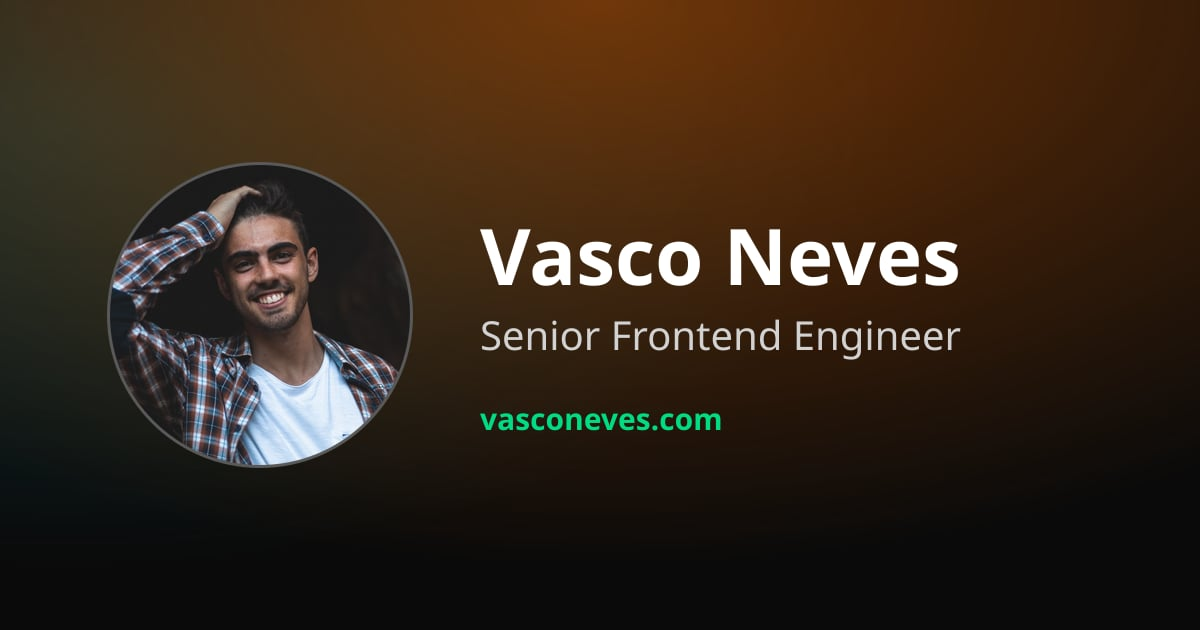
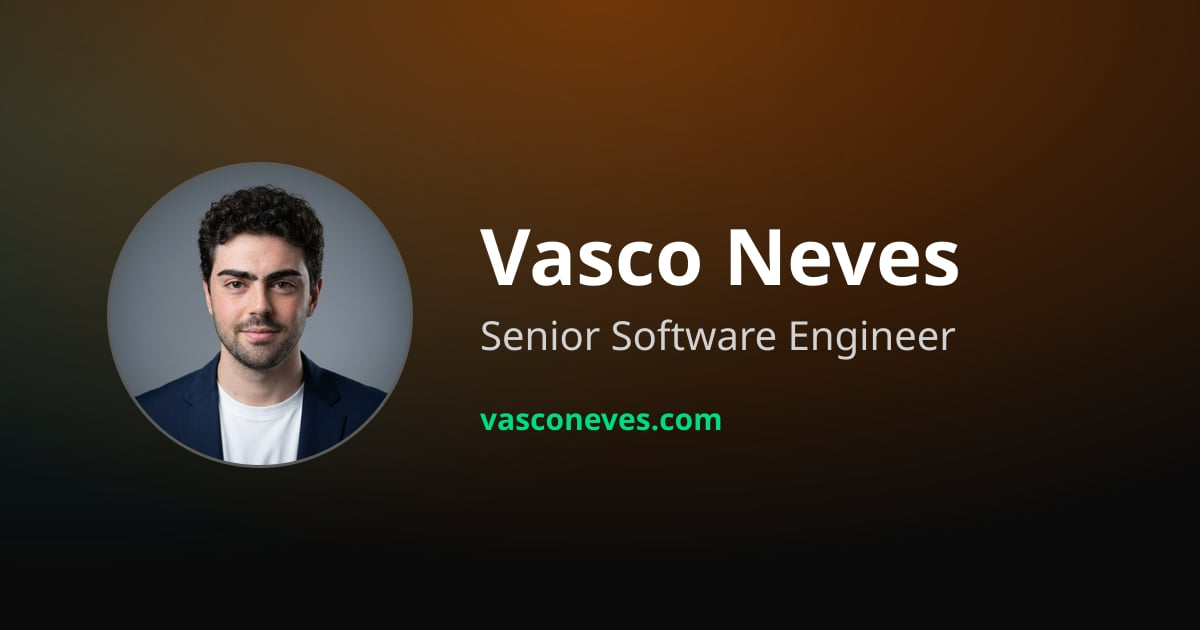
Site: title the role Senior Software Engineer
Update the site role and description, rebuild the Open Graph card, and
point the card script at the renamed profile photo.

Changed region(s): [[0.0925, 0.2413, 0.3392, 0.754], [0.4933, 0.5127, 0.8017, 0.573]]

diff --git a/shared/site.ts b/shared/site.ts
@@ -12,9 +12,9 @@ const email = "nevespvasco+jobs@gmail.com";
 
 export const site = {
   name: "Vasco Neves",
-  role: "Senior Frontend Engineer",
+  role: "Senior Software Engineer",
   description:
-    "Vasco Neves, Senior Frontend Engineer in Lisbon. Data-heavy Vue 3, Nuxt and TypeScript apps, tested with Vitest and Playwright.",
+    "Vasco Neves, Senior Software Engineer in Lisbon. Data-heavy Vue 3, Nuxt and TypeScript apps, tested with Vitest and Playwright.",
   url: "https://www.vasconeves.com",
   location: { city: "Lisbon", country: "Portugal", countryCode: "PT" },
   languages: ["Portuguese", "English"],

diff --git a/scripts/og-card.ts b/scripts/og-card.ts
@@ -37,7 +37,7 @@ const circleMask = Buffer.from(
   `<svg width="${PHOTO}" height="${PHOTO}"><circle cx="${PHOTO / 2}" cy="${PHOTO / 2}" r="${PHOTO / 2}" fill="#fff"/></svg>`,
 );
 
-const photo = await sharp("public/img/profile.jpg")
+const photo = await sharp("public/img/vasco-neves.jpg")
   .resize(PHOTO, PHOTO, { fit: "cover" })
   .composite([{ input: circleMask, blend: "dest-in" }])
   .png()

diff --git a/README.md b/README.md
@@ -1,6 +1,6 @@
 # vasconeves.com
 
-Personal portfolio of Vasco Neves, Senior Frontend Engineer. Built with Nuxt 4 and deployed on Vercel.
+Personal portfolio of Vasco Neves, Senior Software Engineer. Built with Nuxt 4 and deployed on Vercel.
 
 ## Requirements
 
